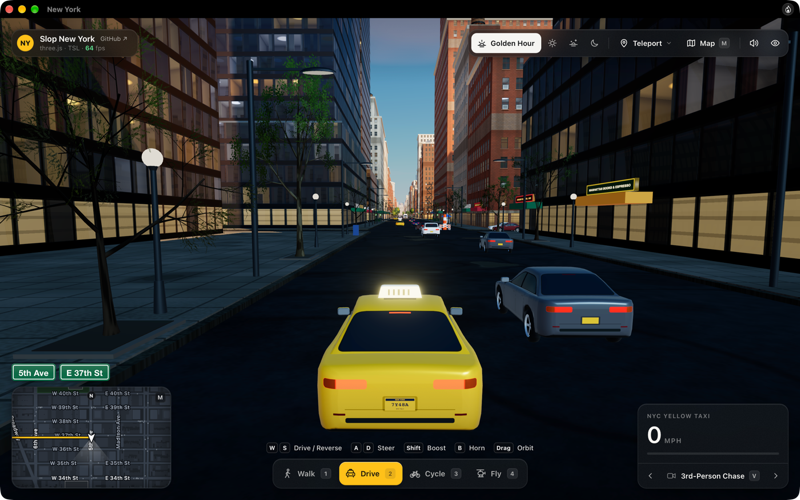
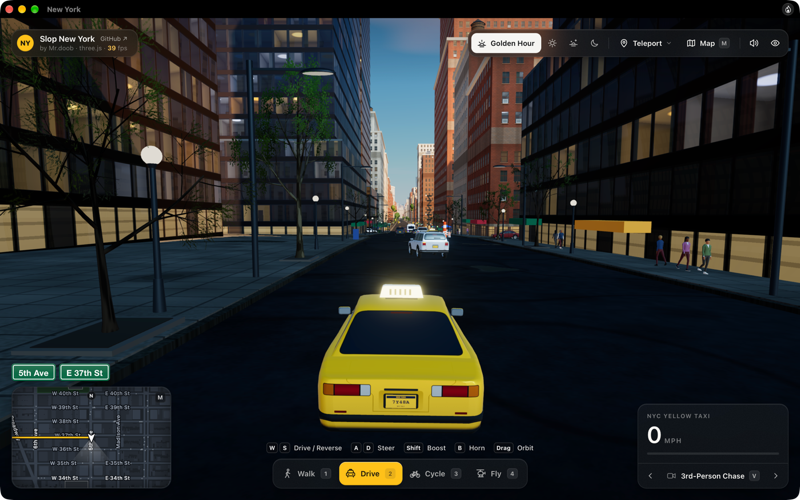
New York: review fixes, a fresh preview, and check-starters
Traffic's obstacle filter measures a building's lowest part from the ground
under it; Bryant Park's trees, placed on the fitted lawn's world height, aren't
lifted a second time; the car and bike start on the ground, not only the
vehicle in use. preview.png is the built starter's own picture.

check-starters.sh dropped every starter: a placeholder that starts a line and
inserts code ({{WISH_LEAVES_LAMP_CLOSED}}) became the word stand-in. Such
placeholders are now left out.

diff --git a/Resources/Starters/newyork/Assets/Web/js/street-details.js b/Resources/Starters/newyork/Assets/Web/js/street-details.js
@@ -840,15 +840,15 @@ function buildStreetDetails(scene) {
   //    and its west end, framing the lawn the library's terrace looks out over (the lawn as fitted by landmarks.js)
   const bpl = bryantParkLawn;
   if (bpl) {
-    const ty = bpl.top - 0.2;
+    const ty = bpl.top - 0.2; // Lamp: the lawn's top is in world space already (it stands on the ground), so these sites are `world`
     for (let tx = bpl.minX - 6; tx <= bpl.maxX + 6; tx += 6.5) {
       for (const tz of [bpl.minZ - 5, bpl.minZ - 11.5, bpl.maxZ + 5, bpl.maxZ + 11.5]) {
-        treePositions.push({ x: tx, y: ty, z: tz, scale: 0.8, species: 0 });
+        treePositions.push({ x: tx, y: ty, z: tz, scale: 0.8, species: 0, world: true });
       }
     }
     for (let tz = bpl.minZ; tz <= bpl.maxZ; tz += 6.5) {
-      treePositions.push({ x: bpl.minX - 6, y: ty, z: tz, scale: 0.82, species: 0 });
-      treePositions.push({ x: bpl.minX - 12.5, y: ty, z: tz, scale: 0.76, species: 0 });
+      treePositions.push({ x: bpl.minX - 6, y: ty, z: tz, scale: 0.82, species: 0, world: true });
+      treePositions.push({ x: bpl.minX - 12.5, y: ty, z: tz, scale: 0.76, species: 0, world: true });
     }
   }
 

diff --git a/Resources/Starters/newyork/Assets/Web/js/main.js b/Resources/Starters/newyork/Assets/Web/js/main.js
@@ -107,11 +107,13 @@ async function initApp() {
   markInit('streetDetails');
   // Buildings turned along non-grid streets have oriented colliders whose world bounds reach past their lots: they stay
   // inside the property line anyway, so the road network (lanes & sidewalks) doesn't need them.
-  // Elevated building sections that clear even a bus don't obstruct ground traffic.
+  // Elevated building sections that clear even a bus don't obstruct ground traffic (Lamp: measured from the ground
+  // under them, as colliders' heights are the world's since the city stands on terrain.js's heights).
   const trafficSystem = createTrafficSystem(scene, cityGrid.sidewalks, [
     ...cityGrid.footprints,
     ...streetDetails.footprints,
-    ...allColliders.filter((c) => !c.obb && (c.minY ?? 0) < 3.5)
+    ...allColliders.filter((c) => !c.obb
+      && (c.minY ?? 0) - groundHeight((c.minX + c.maxX) * 0.5, (c.minZ + c.maxZ) * 0.5) < 3.5)
   ]);
   markInit('traffic');
   const highwayTraffic = createHighwayTraffic(scene, cityGrid.highwayLanes);

diff --git a/Resources/Starters/newyork/Assets/Web/js/trees.js b/Resources/Starters/newyork/Assets/Web/js/trees.js
@@ -877,8 +877,8 @@ function createTreeField(scene, sites) {
     const r3 = hashPos(t.x + t.z, 3.3, 0.7);
     const variant = hashPos(t.x, 5.9, t.z) < 0.5 ? 0 : 1;
     const s = t.scale * (0.9 + r1 * 0.2);
-    // Lamp: a site's y is its height above the ground there (terrain.js)
-    const y = (t.y || 0) + groundHeight(t.x, t.z);
+    // Lamp: a site's y is its height above the ground there (terrain.js), unless it's marked as a height in the world
+    const y = (t.y || 0) + (t.world ? 0 : groundHeight(t.x, t.z));
     dummy.position.set(t.x, y, t.z);
     dummy.rotation.set(0, t.yaw ?? r2 * Math.PI * 2, 0);
     dummy.scale.set(s * (0.9 + r3 * 0.2) * (t.sx || 1), s * (0.88 + r1 * 0.24), s * (0.9 + r2 * 0.2) * (t.sz || 1));

diff --git a/Resources/Starters/newyork/Assets/Web/js/controllers.js b/Resources/Starters/newyork/Assets/Web/js/controllers.js
@@ -222,6 +222,13 @@ class ThirdPersonControllerManager {
       }
     });
 
+    // Lamp: whatever stands on the ground starts on it (terrain.js), not only the vehicle in use, which updates its own
+    for (const key of ['person', 'car', 'cyclist']) {
+      const e = this.entities[key];
+      e.position.y = this.getGroundHeight(e.position.x, e.position.z, key);
+      e.mesh.position.copy(e.position);
+    }
+
     this.bindKeyboard();
   }
 
